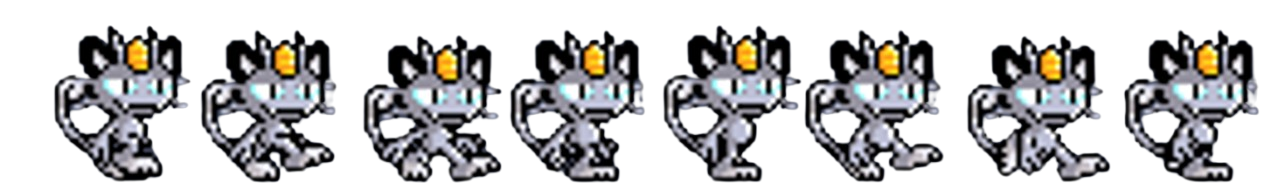
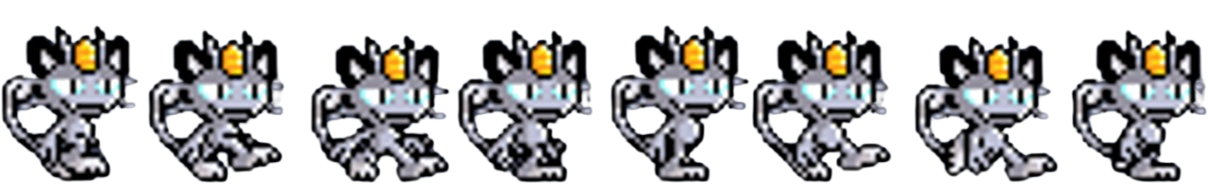
inimigo corrigido

diff --git a/jogo.py b/jogo.py
@@ -14,9 +14,9 @@ altura = 600
 fps = 60
 clock = pygame.time.Clock()
 altura_player = 120
-largura_player = 120
-altura_inimigo = 120
-largura_inimigo = 120
+largura_player = 200
+altura_inimigo = 100
+largura_inimigo = 240
 STILL = 0
 WALK = 'walk'
 img_dir = path.join(path.dirname(__file__), 'assets')
@@ -27,7 +27,7 @@ direita = True # Estabelece pra que lado o jogador está olhando no começo do j
 class player(pygame.sprite.Sprite):
     def __init__(self, groups, player_sheet):
         pygame.sprite.Sprite.__init__(self)
-        player_sheet = pygame.transform.scale(player_sheet, (190, 100))
+        player_sheet = pygame.transform.scale(player_sheet, (largura_player, altura_player))
         spritesheet = load_spritesheet(player_sheet, 1, 5)
         self.animations = { # Estabelece possiveis loops de animação
             STILL: spritesheet[0:4]
@@ -155,7 +155,7 @@ class Enemy(pygame.sprite.Sprite):
         super().__init__()
 
         # Carregar e redimensionar o spritesheet
-        enemy_sheet = pygame.transform.scale(enemy_sheet, (190, 120))
+        enemy_sheet = pygame.transform.scale(enemy_sheet, (largura_inimigo, altura_inimigo))
         self.spritesheet = self.load_spritesheet(enemy_sheet, 1, 8)  # Ajuste para 8 frames
 
         # Configuração da animação
@@ -231,16 +231,6 @@ class Enemy(pygame.sprite.Sprite):
         # Atualizar posição
         self.rect.x += self.speedx
         self.rect.y += self.speedy
-
-        # Manter dentro da tela (ajuste para o chão, se necessário)
-        if self.rect.right > largura:
-            self.rect.right = largura
-        if self.rect.left < 0:
-            self.rect.left = 0
-        if self.rect.bottom > altura:
-            self.rect.bottom = altura
-        if self.rect.top < 0:
-            self.rect.top = 0
 
 # Recebe uma imagem de sprite sheet e retorna uma lista de imagens. 
 # É necessário definir quantos sprites estão presentes em cada linha e coluna.
@@ -349,7 +339,7 @@ all_sprites.add(ataque_atual)
 
 # Cria inimigos
 enemies = pygame.sprite.Group()
-for _ in range(5):  # Ajusta a quantidade de inimigos
+for _ in range(1):  # Ajusta a quantidade de inimigos
     enemy_img = assets['Meowth']  # A imagem do inimigo
     new_enemy = Enemy(enemy_img, enemy_img, jogador)  # Passando a imagem do inimigo e o jogador
     all_sprites.add(new_enemy)
